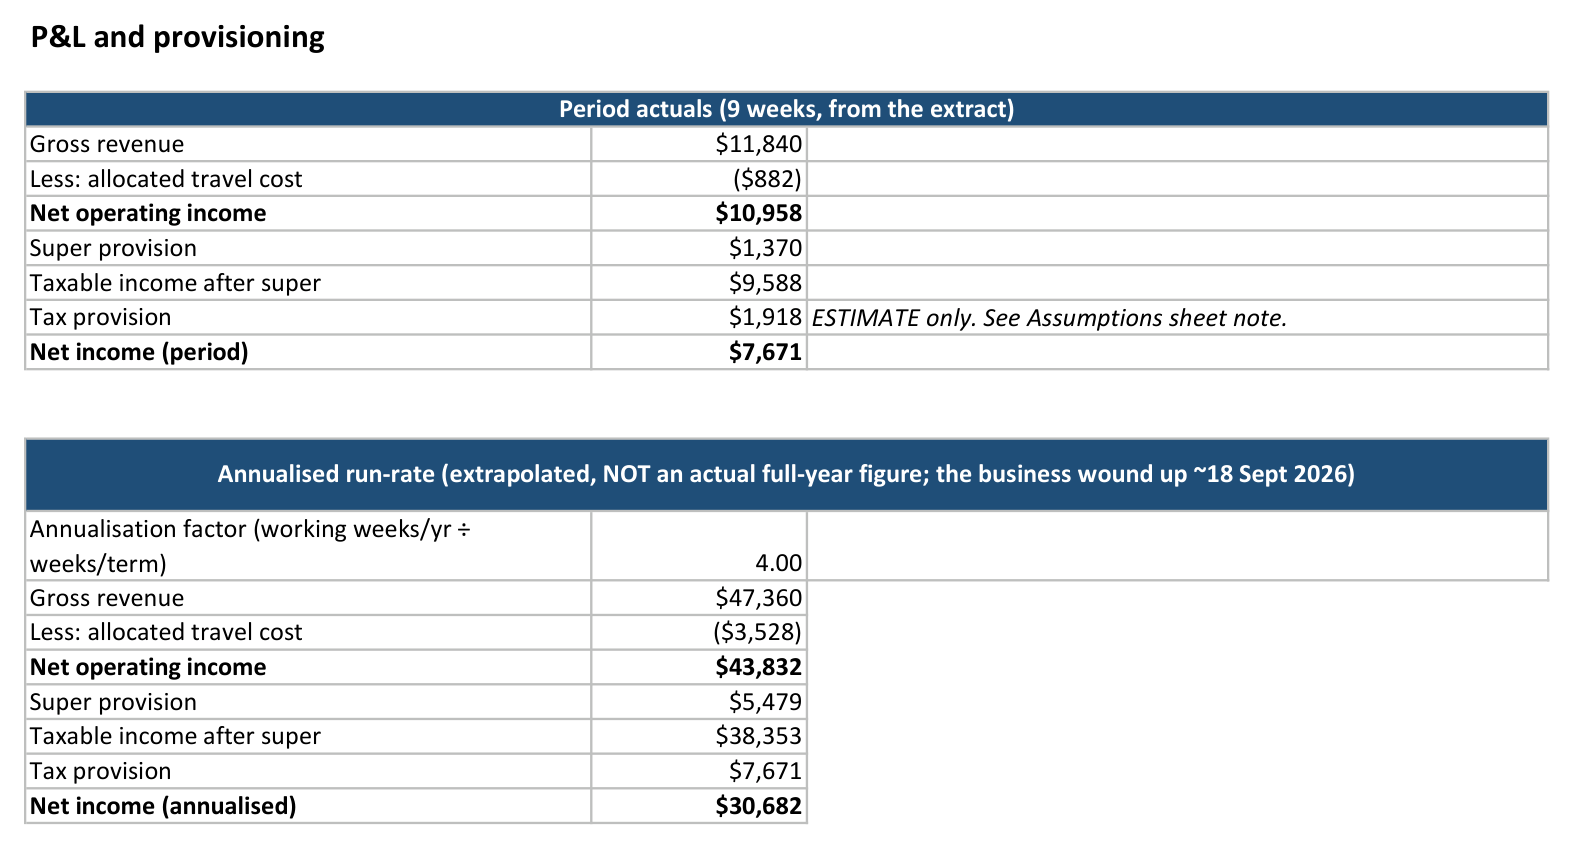
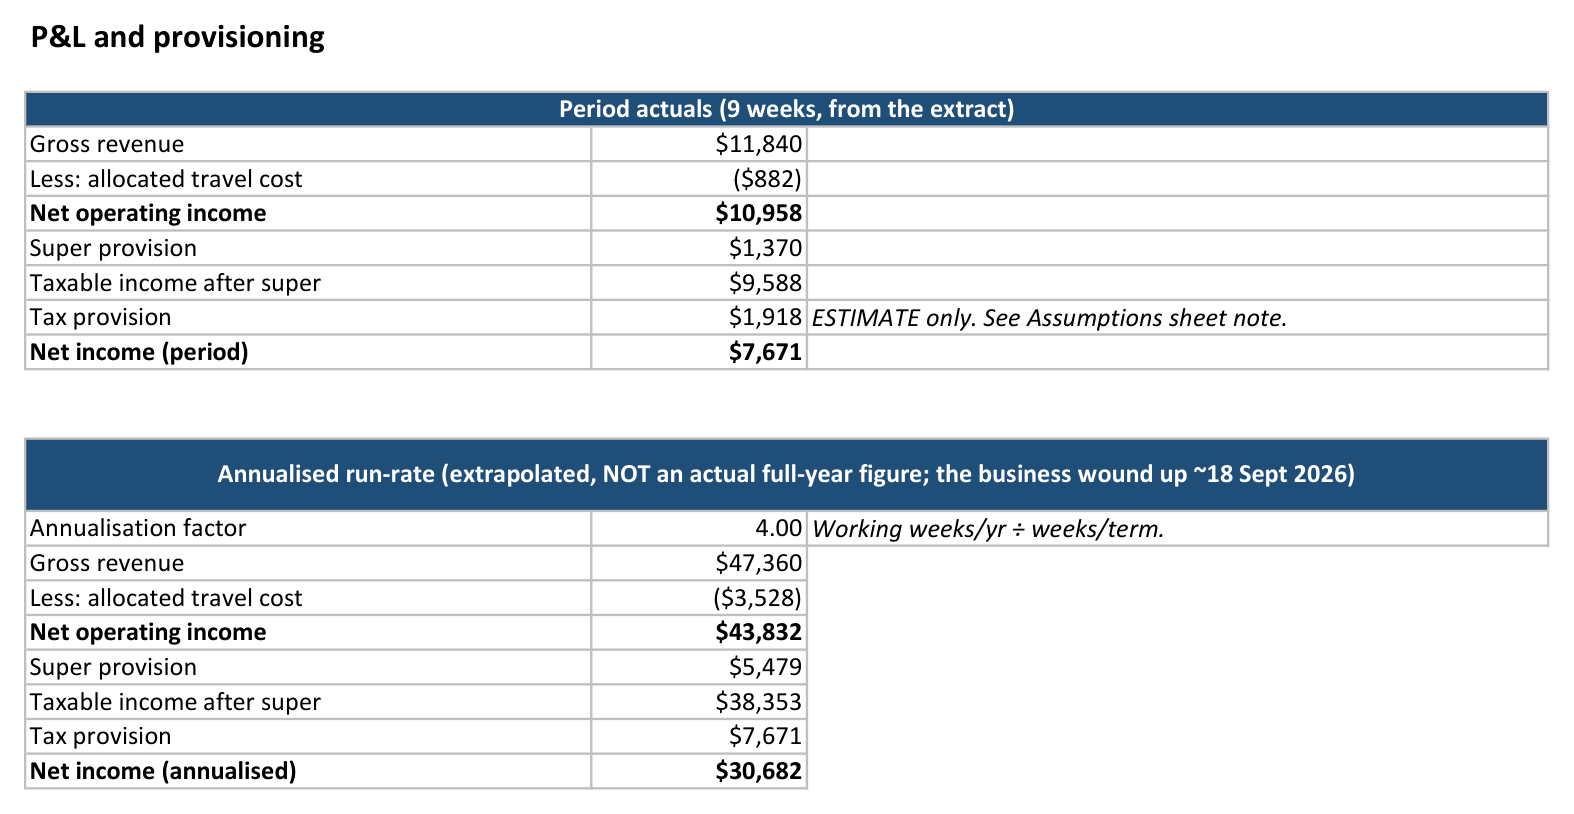
fix: align Annualisation factor row with rest of P&L table
Shortened the wrapped label (which forced a taller row than its
neighbours) and moved the working-weeks/weeks-per-term derivation into
the notes column, matching how the Tax provision row already uses it.

Changed region(s): [[0.0, 0.0921, 0.9962, 0.4607], [0.0, 0.4914, 0.9962, 0.9828], [0.0311, 0.0307, 0.2179, 0.0614]]

diff --git a/scripts/build_workbook.py b/scripts/build_workbook.py
@@ -530,10 +530,10 @@ def build_pl(wb, a_refs, rbs_refs, cts_refs):
     ws.merge_cells(f"A{r}:C{r}")
     ws.row_dimensions[r].height = 30
     r += 1
-    sc(ws, f"A{r}", "Annualisation factor (working weeks/yr ÷ weeks/term)", border=True, wrap=True)
+    sc(ws, f"A{r}", "Annualisation factor", border=True)
     sc(ws, f"B{r}", f"={A('working_weeks_per_year')}/{A('weeks_per_term')}", font=GREEN,
        number_format=NUM2, border=True)
-    sc(ws, f"C{r}", "", border=True)
+    sc(ws, f"C{r}", "Working weeks/yr ÷ weeks/term.", font=NOTE_FONT, wrap=True, border=True)
     factor_row = r
     r += 1
     ann_start = r
